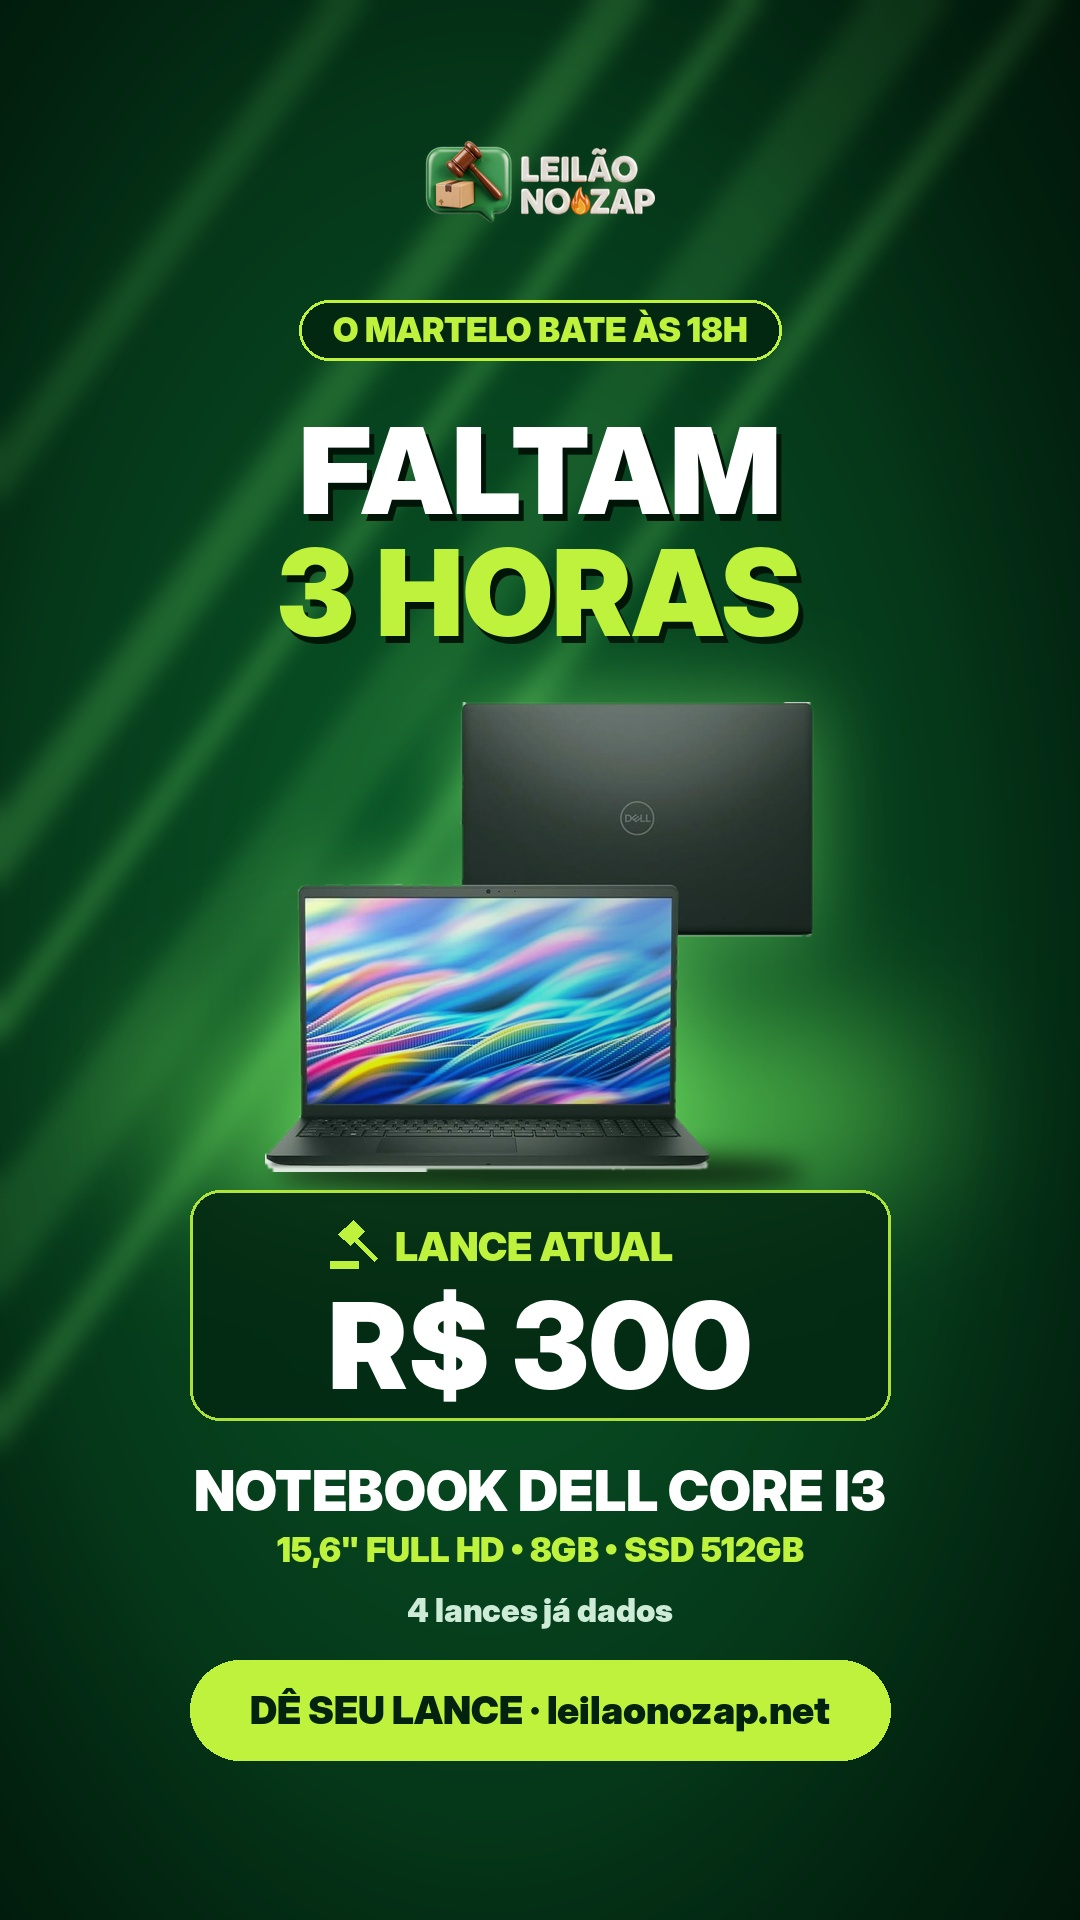
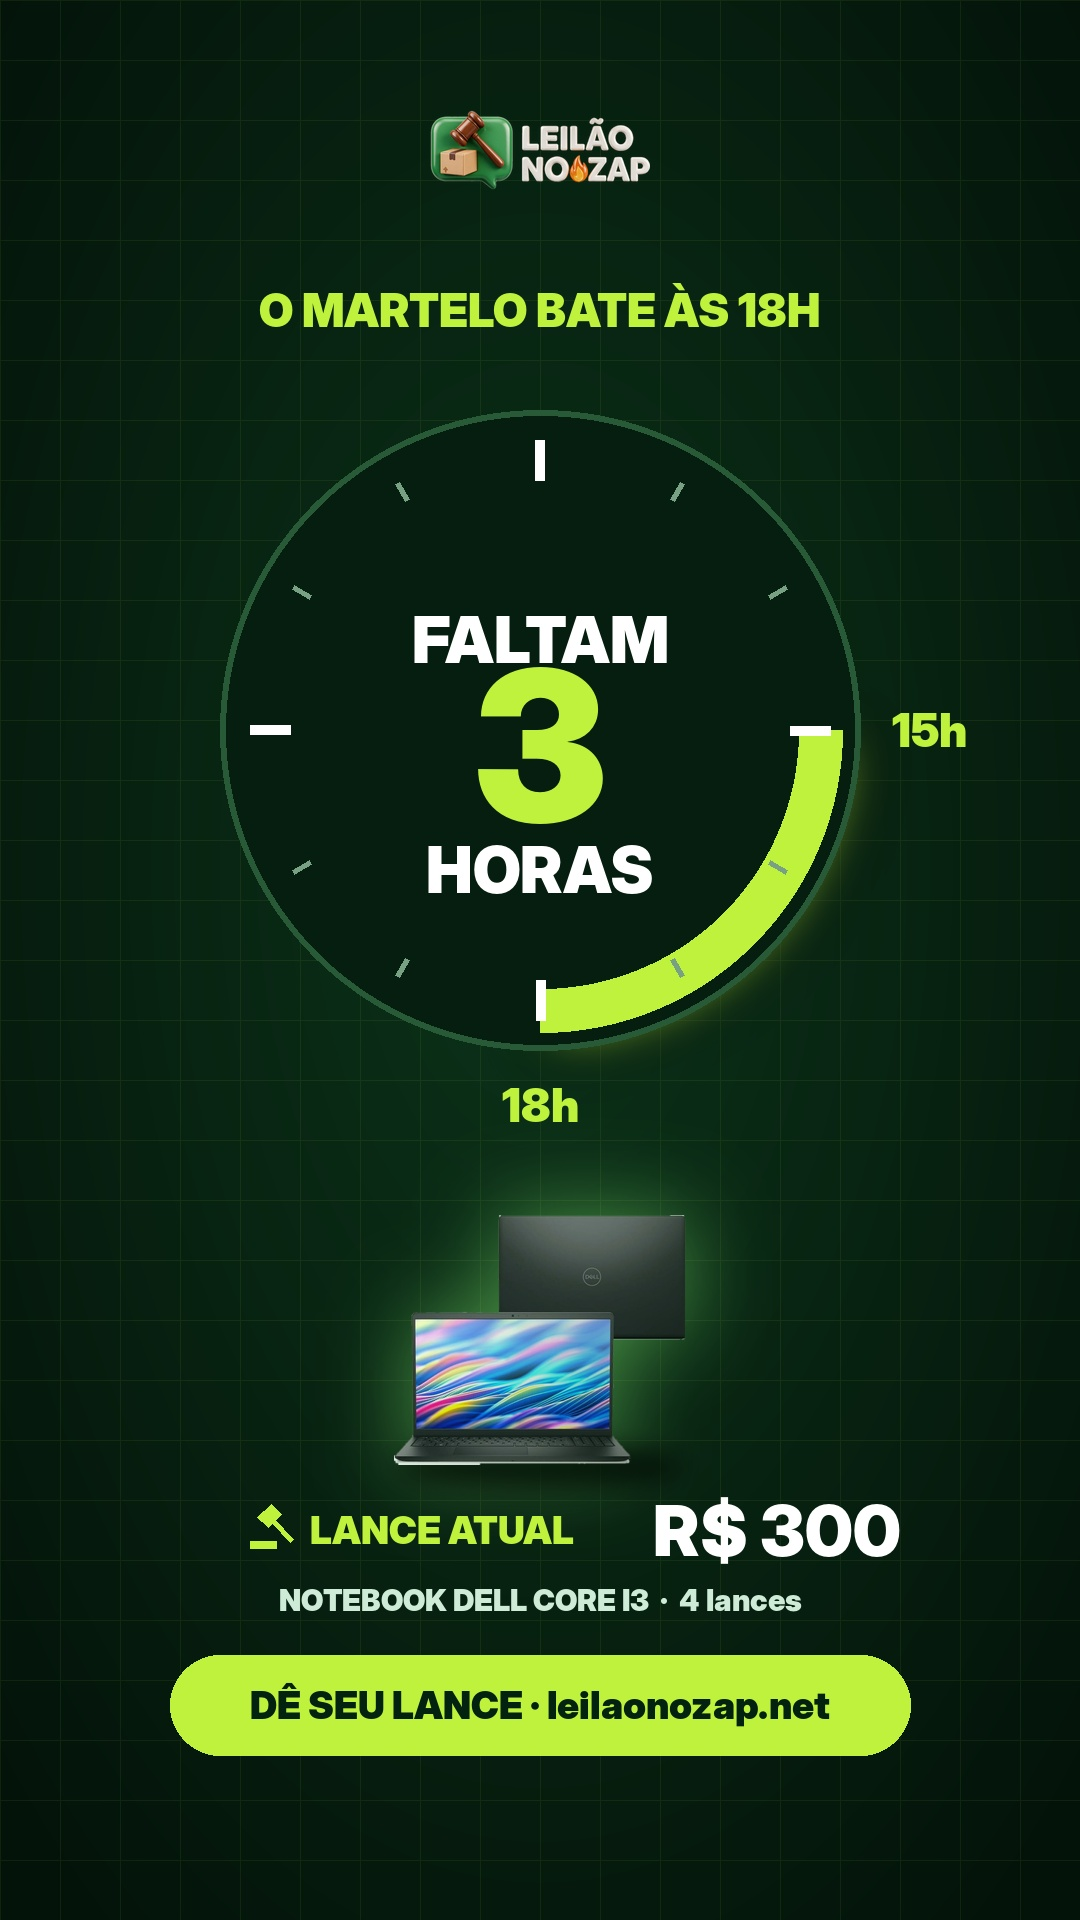
Contagem 15h: novo visual de relógio (o trecho 15h→18h aceso)
Claude-Session: https://claude.ai/code/session_01JihU9VfVTYTrMqQpApFEjH

diff --git a/marketing/semana-2026-10-28/fonte/contagem_variada.py b/marketing/semana-2026-10-28/fonte/contagem_variada.py
@@ -1,6 +1,6 @@
 # Contagem regressiva do sábado 31/10 com UM VISUAL DIFERENTE por horário (sugestão do time de vendas: arte repetida
 # vira "a mesma de antes" e ninguém para). Mesmo texto e mesma marca (verde, lima, logo, notebook real), layouts distintos:
-# 15h clássico · 16h número gigante no escuro · 17h fundo lima invertido · 17h30 barra do tempo · 17h50 fita de alerta.
+# 15h relógio (o arco 15h→18h aceso) · 16h número gigante no escuro · 17h fundo lima invertido · 17h30 barra do tempo · 17h50 fita de alerta.
 # Uso: python3 contagem_variada.py <lance> <n_lances> <saida_dir>
 import math, os, sys
 import numpy as np
@@ -133,10 +133,38 @@ def fita_alerta(lance, n, saida):  # 17h50
     b.convert('RGB').save(saida, quality=95)
 
 
+def relogio(lance, n, saida):  # 15h — mostrador com o trecho das 15h às 18h aceso (pedido da Natália: a clássica ficou igual)
+    b = fundo_escuro(); _logo(b, y=110, largura=220)
+    d = ImageDraw.Draw(b)
+    d.text((540, 310), 'O MARTELO BATE ÀS 18H', font=F('Black', 46), fill=LIMA, anchor='mm')
+    cx, cy, r = 540, 730, 320
+    halo = Image.new('RGBA', (W, H), (0, 0, 0, 0))
+    ImageDraw.Draw(halo).arc((cx - r, cy - r, cx + r, cy + r), start=0, end=90, fill=LIMA + (200,), width=70)
+    b.alpha_composite(halo.filter(ImageFilter.GaussianBlur(28)))
+    d = ImageDraw.Draw(b)
+    d.ellipse((cx - r, cy - r, cx + r, cy + r), fill=(6, 30, 15), outline=(40, 90, 55), width=6)
+    d.arc((cx - r + 18, cy - r + 18, cx + r - 18, cy + r - 18), start=0, end=90, fill=LIMA, width=44)  # 15h (3) → 18h (6)
+    for h in range(12):
+        a = math.radians(h * 30 - 90)
+        r1, r2 = (r - 70, r - 30) if h % 3 == 0 else (r - 55, r - 35)
+        d.line((cx + r1 * math.cos(a), cy + r1 * math.sin(a), cx + r2 * math.cos(a), cy + r2 * math.sin(a)), fill=BRANCO if h % 3 == 0 else (120, 160, 130), width=10 if h % 3 == 0 else 5)
+    for h, txt in ((3, '15h'), (6, '18h')):
+        a = math.radians(h * 30 - 90)
+        d.text((cx + (r + 70) * math.cos(a), cy + (r + 55) * math.sin(a)), txt, font=F('Black', 46), fill=LIMA, anchor='mm')
+    d.text((cx, cy - 90), 'FALTAM', font=F('Black', 64), fill=BRANCO, anchor='mm')
+    d.text((cx, cy + 15), '3', font=F('Black', 210), fill=LIMA, anchor='mm')
+    d.text((cx, cy + 140), 'HORAS', font=F('Black', 64), fill=BRANCO, anchor='mm')
+    produto(b, FOTO, 540, 1465, 250)
+    d = ImageDraw.Draw(b)
+    linha_lance(d, lance, n, 1530)
+    cta(d, 1655)
+    b.convert('RGB').save(saida, quality=95)
+
+
 if __name__ == '__main__':
     lance, n, out = float(sys.argv[1]), int(sys.argv[2]), sys.argv[3]
     os.makedirs(out, exist_ok=True)
-    peca(lance, n, 'FALTAM', '3 HORAS', 'O MARTELO BATE ÀS 18H', f'{out}/CONTAGEM-15h-faltam-3-horas.jpg')
+    relogio(lance, n, f'{out}/CONTAGEM-15h-faltam-3-horas.jpg')
     numero_gigante(lance, n, f'{out}/CONTAGEM-16h-faltam-2-horas.jpg')
     invertido(lance, n, f'{out}/CONTAGEM-17h-falta-1-hora.jpg')
     barra_do_tempo(lance, n, f'{out}/CONTAGEM-17h30-faltam-30-minutos.jpg')
